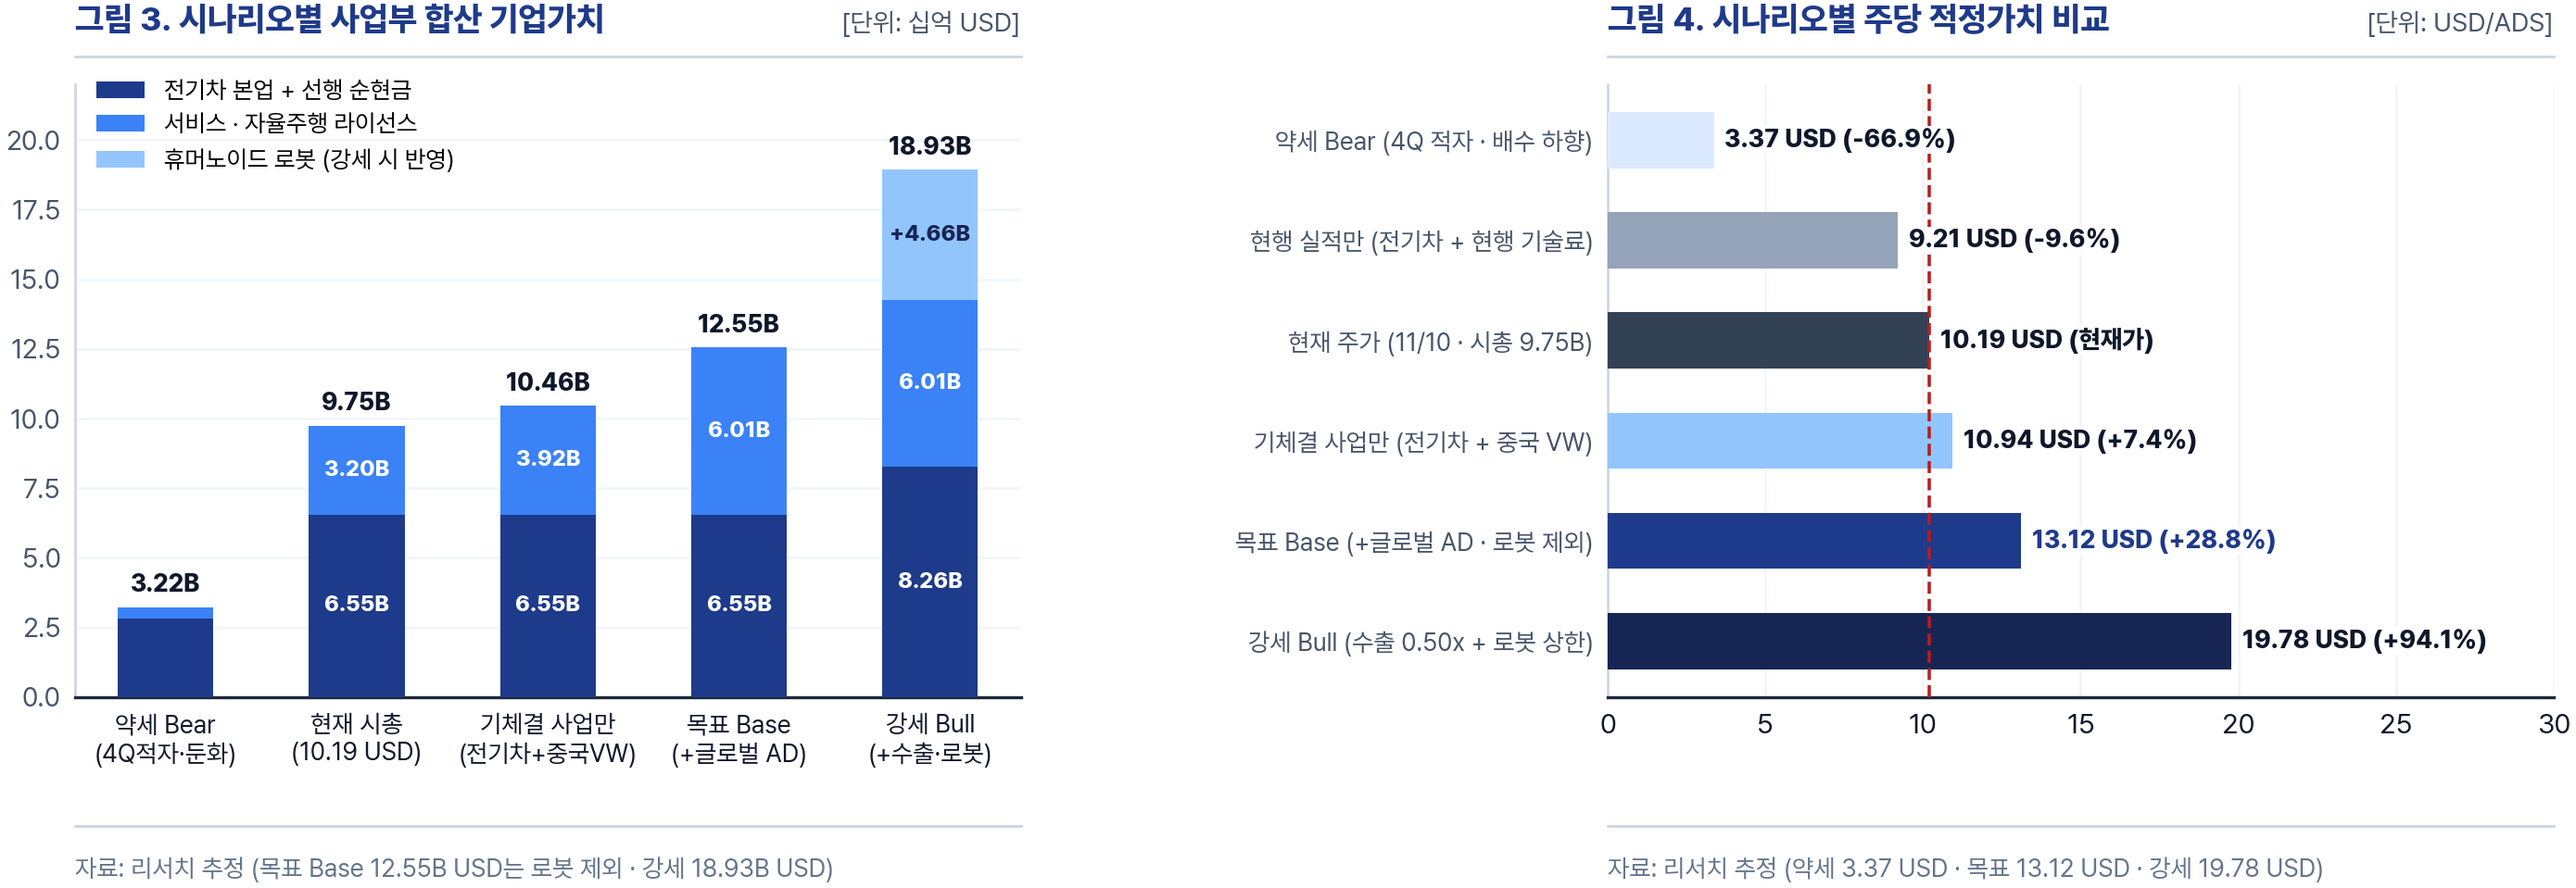
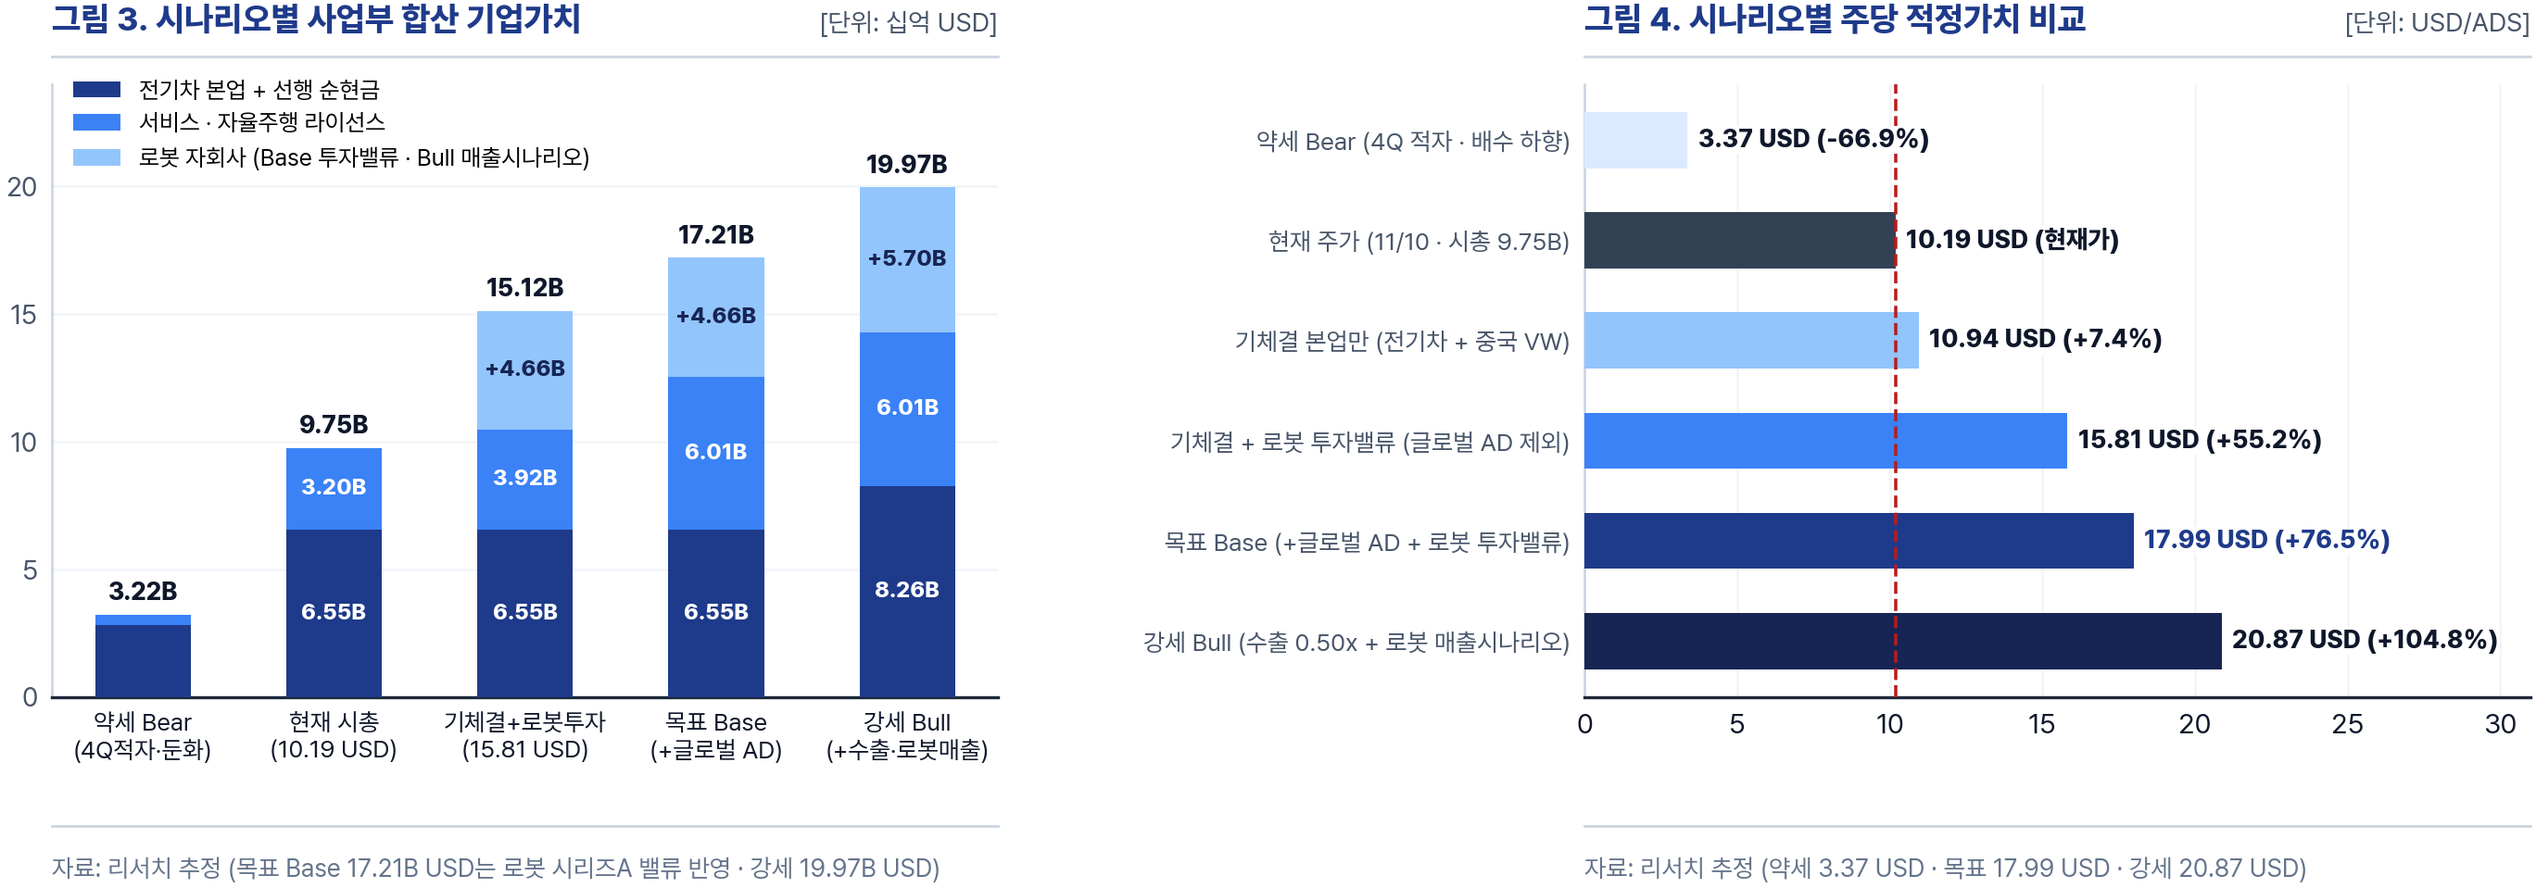
Feat(XPEV): reflect Dogotix Series A mark in Base (17.99 USD) and robot revenue scenario in Bull (20.87 USD)

diff --git a/content/US/XPEV/XPEV_Report.md b/content/US/XPEV/XPEV_Report.md
@@ -1,6 +1,6 @@
 ---
 title: "XPeng Inc. (XPEV)"
-description: "현 주가(10.19 USD)는 전기차 턴어라운드와 폭스바겐 중국 로열티만 반영한 수준이며, 글로벌 완성차 자율주행 신규 공급 성사를 전제로 목표주가 13.12 USD(+28.8%), 로봇 양산 안착 시 강세 19.78 USD를 제시함."
+description: "현 주가(10.19 USD)는 전기차와 폭스바겐 중국 로열티만 반영한 수준이며, 로봇 자회사 시리즈 A 투자유치 밸류와 글로벌 자율주행 공급을 반영해 목표주가 17.99 USD(+76.5%), 로봇 매출 시나리오 안착 시 강세 20.87 USD를 제시함."
 date: 2026-11-11
 ticker: XPEV
 company: XPeng Inc.
@@ -10,8 +10,8 @@ type: report
 doc_type: Investment Report
 rating: BUY
 current_price: 10.19
-target_price: 13.12
-upside: "+28.8%"
+target_price: 17.99
+upside: "+76.5%"
 status: active
 tags:
   - investment/report
@@ -21,7 +21,7 @@ tags:
 
 | 투자의견 | 현재가 | 목표주가 | 상승여력 | 시가총액 | 선행 EV/Sales | 핵심 모멘텀 |
 | :---: | :---: | :---: | :---: | :---: | :---: | :---: |
-| BUY | 10.19 USD (68.27 RMB) | 13.12 USD (강세 19.78) | +28.8% (약세 -66.9%) | 9.75B USD (65.32B RMB) | 0.57x (28E P/E 23.1x) | 11/16 실적 · 11/25 Tech Day |
+| BUY | 10.19 USD (68.27 RMB) | 17.99 USD (강세 20.87) | +76.5% (약세 -66.9%) | 9.75B USD (65.32B RMB) | 0.57x (28E P/E 23.1x) | 11/16 실적 · 11/25 Tech Day |
 
 | 단위: 십억 RMB | FY22 | FY23 | FY24 | FY25 | FY26E | FY27E | FY28E |
 | :--- | :---: | :---: | :---: | :---: | :---: | :---: | :---: |
@@ -55,10 +55,10 @@ tags:
 
 ## 결론
 
-- 투자의견 : BUY 및 목표주가 13.12 USD(+28.8%) 제시, 로봇 양산까지 안착 시 강세 19.78 USD(+94.1%) 산출
-- 현 주가 수준 : 현 주가는 월 5만 대를 회복한 전기차 본업과 기체결 폭스바겐 중국 로열티만 반영한 수준임
-- 핵심 상방 근거 : 목표주가는 아직 외부 고객이 0건인 글로벌 완성차 자율주행 신규 공급(연 10억 RMB 규모) 성사에 걸려 있음
-- 확인 및 하향 조건 : 2027년 상반기 글로벌 수주 불발 시 목표가를 하향하며, 4Q26 인도 16만 대 미달 및 적자 지속 시 매수 의견을 철회함
+- 투자의견 : BUY 및 목표주가 17.99 USD(+76.5%) 제시, 로봇 양산 매출 시나리오 안착 시 강세 20.87 USD(+104.8%) 산출
+- 현 주가 수준 : 현 주가는 전기차 본업과 폭스바겐 중국 로열티만 반영해 기투자받은 로봇 자회사 지분가치조차 미반영된 상태임
+- 핵심 상방 근거 : 로봇 자회사 시리즈 A 실거래 지분가치 반영 위에 글로벌 완성차 자율주행 신규 공급 재평가를 결합함
+- 확인 및 하향 조건 : 글로벌 수주와 로봇 외부 판매 지연 시 목표가를 하향하며, 4Q26 인도 16만 대 미달 시 매수 의견을 철회함
 
 ## 01. 회사 개요 및 수익 구조
 
@@ -142,38 +142,38 @@ tags:
 
 - 목표 판매가 18만 RMB는 중국 소매업 연평균 임금(6.96만 RMB)의 2.6년분에 달해 단순 매장 안내·전시 용도로는 고객사의 투자비 회수 기간이 김
 - 현재 샤오펑 자체 매장·공장 배치 외 외부 기업과의 확정 유상 수주는 0건이며 외부 투자금에는 7년 내 미상장 시 연 8% 복리 상환권이 붙어 있음
-- 외부 유상 수주와 산업 현장 내구성이 아직 입증되지 않았으므로 기본 목표주가 산출에서는 로봇 가치를 제외하고 강세 시나리오에만 반영함
+- 이에 기본 목표주가에는 외부 기관이 실제 현금을 납입한 시리즈 A 지분가치(46.6억 USD)만 반영하고, 2만 대 양산 매출 시나리오(57.0억 USD)는 강세에만 적용함
 
 ## 03. 밸류에이션 및 시나리오
 
 ### 3-1. 사업부 합산 적정주가 산출
-- 현 주가 진단 : 현 주가 10.19 USD는 전기차 본업과 기체결 폭스바겐 중국 로열티, 선행 순현금만 반영한 수준임
-- 목표주가 동력 : 글로벌 완성차 자율주행 신규 공급 1건 성사 시 목표주가 13.12 USD(+28.8%)가 도출되며 로봇은 제외함
-- 상·하방 범위 : 수출 호조와 로봇 양산 안착 시 강세 19.78 USD(+94.1%)가 열리나 본업 적자 지속 시 약세 3.37 USD까지 하락함
+- 현 주가 진단 : 현 주가 10.19 USD는 전기차 본업과 폭스바겐 중국 로열티만 반영한 수준으로 로봇 자회사 지분가치조차 빠져 있음
+- 목표주가 동력 : 로봇 시리즈 A 투자유치 지분가치와 글로벌 자율주행 신규 공급 1건을 합산해 목표주가 17.99 USD(+76.5%)를 산출함
+- 상·하방 범위 : 수출 확대와 로봇 2만 대 매출 시나리오 달성 시 강세 20.87 USD(+104.8%)이나 본업 적자 지속 시 약세 3.37 USD까지 하락함
 
-| 사업 부문 | 선행 매출 | 적용 배수 | 부문 가치 | 주당 가치 | 산출 근거 |
+| 사업 부문 | 선행 매출 · 기준 | 적용 배수 | 부문 가치 | 주당 가치 | 산출 근거 |
 | :--- | :---: | :---: | :---: | :---: | :--- |
 | 스마트 EV 본업 | 96.3B RMB | EV/S 0.40x | 5.75B USD | 6.01 USD | 니오(0.32x) 대비 수출 비중(26.5%) · 총이익률(20.7%) 우위 |
 | 폭스바겐 중국 · 서비스 | 10.5B RMB | EV/S 2.50x | 3.92B USD | 4.10 USD | 부품·정비(0.40x) + 기체결 폭스바겐 양산 로열티 결합 |
 | 글로벌 자율주행 확장 | +1.0B RMB | 부문 3.50x | +2.09B USD | +2.18 USD | 외부 완성차 1건 성사 시 부품(0.4x) · 호라이즌(6.6x) 가중 |
 | 선행 순현금 | - | 1.00x | 0.80B USD | 0.83 USD | 2Q26 순현금(73.4억 RMB)에서 12개월 현금소진 차감 |
-| 휴머노이드 로봇 (74%) | 미반영 | 제외 | 0.00B USD | 0.00 USD | 외부 유상 수주 전 목표주가에서 제외 (강세 시 +4.87 USD) |
-| 목표주가 합계 (Base) | 107.8B RMB | EV/S 0.73x | 12.55B USD | 13.12 USD | 기체결 합계(10.94 USD) + 글로벌 자율주행(+2.18 USD) |
+| 휴머노이드 로봇 (74%) | 시리즈 A 실거래 | 1.00x | 4.66B USD | 4.87 USD | 외부 기관 6억 USD 출자 포스트머니 63억 USD × 지분 73.97% |
+| 목표주가 합계 (Base) | 107.8B RMB | SOTP 합산 | 17.21B USD | 17.99 USD | 기체결 본업(10.94) + 자율주행(+2.18) + 로봇 투자밸류(+4.87) |
 
 | 시나리오 | 핵심 전제 | 차량 · 서비스 배수 | 기업가치 합계 | 적정주가 (괴리율) |
 | :--- | :--- | :---: | :---: | :---: |
-| 약세 (Bear) | 4Q26 적자 지속 · 중국 기술료 둔화 · 신사업 무산 | 0.16x · 0.32x | 3.22B USD | 3.37 USD (-66.9%) |
-| 기체결 사업만 | 전기차 흑자 전환 + 기체결 폭스바겐 중국 양산 로열티 | 0.40x · 2.50x | 10.46B USD | 10.94 USD (+7.4%) |
-| 목표 (Base) | 기체결 사업 + 글로벌 완성차 자율주행 신규 공급 1건 | 0.40x · 3.50x | 12.55B USD | 13.12 USD (+28.8%) |
-| 강세 (Bull) | 수출 확대(0.50x) + 글로벌 자율주행 + 로봇 2만 대 상한 | 0.50x · 3.50x | 18.93B USD | 19.78 USD (+94.1%) |
+| 약세 (Bear) | 4Q26 적자 지속 · 중국 기술료 둔화 · 로봇 무산 | 0.16x · 0.32x | 3.22B USD | 3.37 USD (-66.9%) |
+| 기체결 + 로봇밸류 | 전기차 흑자 + 폭스바겐 중국 + 로봇 투자유치 밸류 | 0.40x · 2.50x | 15.12B USD | 15.81 USD (+55.2%) |
+| 목표 (Base) | 기체결 + 글로벌 자율주행 1건 + 로봇 투자유치 밸류 | 0.40x · 3.50x | 17.21B USD | 17.99 USD (+76.5%) |
+| 강세 (Bull) | 수출 확대(0.50x) + 자율주행 + 로봇 2만 대 매출시나리오 | 0.50x · 3.50x | 19.97B USD | 20.87 USD (+104.8%) |
 
 ![시나리오별 기업가치 및 주당 적정가치 비교](assets/xpev_val_breakdown.png)
 
 ### 3-2. 중기 실적 추정
 - 연결 손익은 4Q26 분기 흑자 전환 이후 폭스바겐 중국 양산 로열티 유입이 본격화되는 FY27E 조정순이익 11.9억 RMB로 연간 흑자 전환을 추정함
-- 자회사(Dogotix) 로봇 매출은 외부 유상 수주 확인 전까지 연결 추정치와 기본 목표주가에서 분리해 별도 운영 지표로 추적함
+- 로봇 자회사(Dogotix)는 기본 목표주가에 시리즈 A 실거래 지분가치(46.6억 USD)로 반영하되, 강세 전환 조건인 양산 매출 시나리오를 별도 지표로 추적함
 
-| 중기 실적 및 로봇 운영 지표 | FY25 | FY26E | FY27E | FY28E |
+| 중기 실적 및 로봇 매출 시나리오 | FY25 | FY26E | FY27E | FY28E |
 | :--- | :---: | :---: | :---: | :---: |
 | 차량 매출액 (B RMB) | 68.38 | 77.35 | 101.62 | 119.73 |
 | 서비스·기술 라이선스 연결 매출 (B RMB) | 8.34 | 9.50 | 10.50 | 12.00 |
@@ -181,8 +181,8 @@ tags:
 | 전사 매출총이익률 (GPM) | 18.9% | 21.0% | 21.0% | 22.5% |
 | 조정영업이익 (OPM) | -2.09 (-2.7%) | -3.29 (-3.8%) | 2.13 (1.9%) | 4.61 (3.5%) |
 | 조정 EPS (RMB) | -0.48 | -3.54 | 1.24 | 2.96 |
-| 로봇 출하 가정 (광저우 공장 가동률) | 0대 (-) | 0대 (-) | 3,000대 (15%) | 15,000대 (75%) |
-| 로봇 별도 매출 · 할인 후 지분가치 | - | - | 0.54B RMB | 2.70B RMB (42.8억 USD) |
+| 로봇 출하 시나리오 (강세 풀가동 기준) | 0대 (-) | 0대 (-) | 5,000대 (25%) | 20,000대 (100%) |
+| 로봇 지분가치 (Base 투자밸류 → Bull 매출) | - | 46.6억 USD | 0.90B RMB | 3.60B RMB (57.0억 USD) |
 
 ## 04. 주요 일정 및 리스크
 
@@ -191,13 +191,13 @@ tags:
 | :---: | :--- | :--- | :--- |
 | 2026-11-12 | 폭스바겐 공동개발 ID. ERA 5X 출시 | 양산 출고 개시 및 2027년 대당 로열티 전환 일정 확인 | 기체결 로열티 확인 |
 | 2026-11-16 | 3Q26 실적 발표 및 가이던스 | 4Q26 인도 가이던스 16만 - 17만 대 · 차량 총이익률 14%+ | 본업 배수(0.40x) 유지 |
-| 2026-11-25 | XPeng Tech Day 개최 | 양산형 로봇(IRON) 현장 시연 · 단가 18만 RMB · 외부 수주 공개 | 강세 옵션 검증 |
+| 2026-11-25 | XPeng Tech Day 개최 | 양산형 로봇(IRON) 현장 시연 · 단가 18만 RMB · 외부 수주 공개 | 로봇 밸류 정당화 · 강세 검증 |
 | 2027년 상반기 | 글로벌 완성차 자율주행 본계약 | 유럽 NGP 규제 승인 및 유럽·일본 OEM 첫 모듈 공급 계약 | 목표가 유지 · 불발 시 하향 |
 
 ### 4-2. 리스크 및 목표가 하향 조건
-- 글로벌 자율주행 신규 수주 불발 시
-  - 리스크 요인 : 2027년 상반기까지 폭스바겐 중국 법인 외 글로벌 완성차 대상 신규 자율주행 공급 계약이 0건에 그치는 경우임
-  - 목표가 조정 : 목표주가(13.12 USD)의 핵심 상방 근거가 소멸하므로 투자의견을 HOLD로 낮추고 기체결 사업 수준으로 목표가를 하향함
+- 글로벌 자율주행 수주 및 로봇 상업화 지연 시
+  - 리스크 요인 : 2027년 상반기까지 폭스바겐 외 글로벌 자율주행 신규 계약이 0건에 그치거나 2Q27 말까지 로봇 외부 유상 판매가 0건인 경우임
+  - 목표가 조정 : 글로벌 수주 불발 시 15.81 USD로, 로봇 상업화까지 동시 지연돼 투자밸류를 제외할 경우 기체결 본업 수준(10.94 USD, HOLD)으로 목표가를 하향함
 - 전기차 본업 턴어라운드 무산 시
   - 리스크 요인 : 4Q26 차량 인도량이 16만 대에 미달하고 분기 흑자 전환에 실패하거나 폭스바겐 기술료 매출이 2개 분기 연속 감소하는 경우임
   - 목표가 조정 : 완성차 적용 배수(0.40배)의 전제가 훼손되므로 매수 의견을 철회하고 약세 시나리오(3.37 USD) 수준으로 목표가를 하향함
